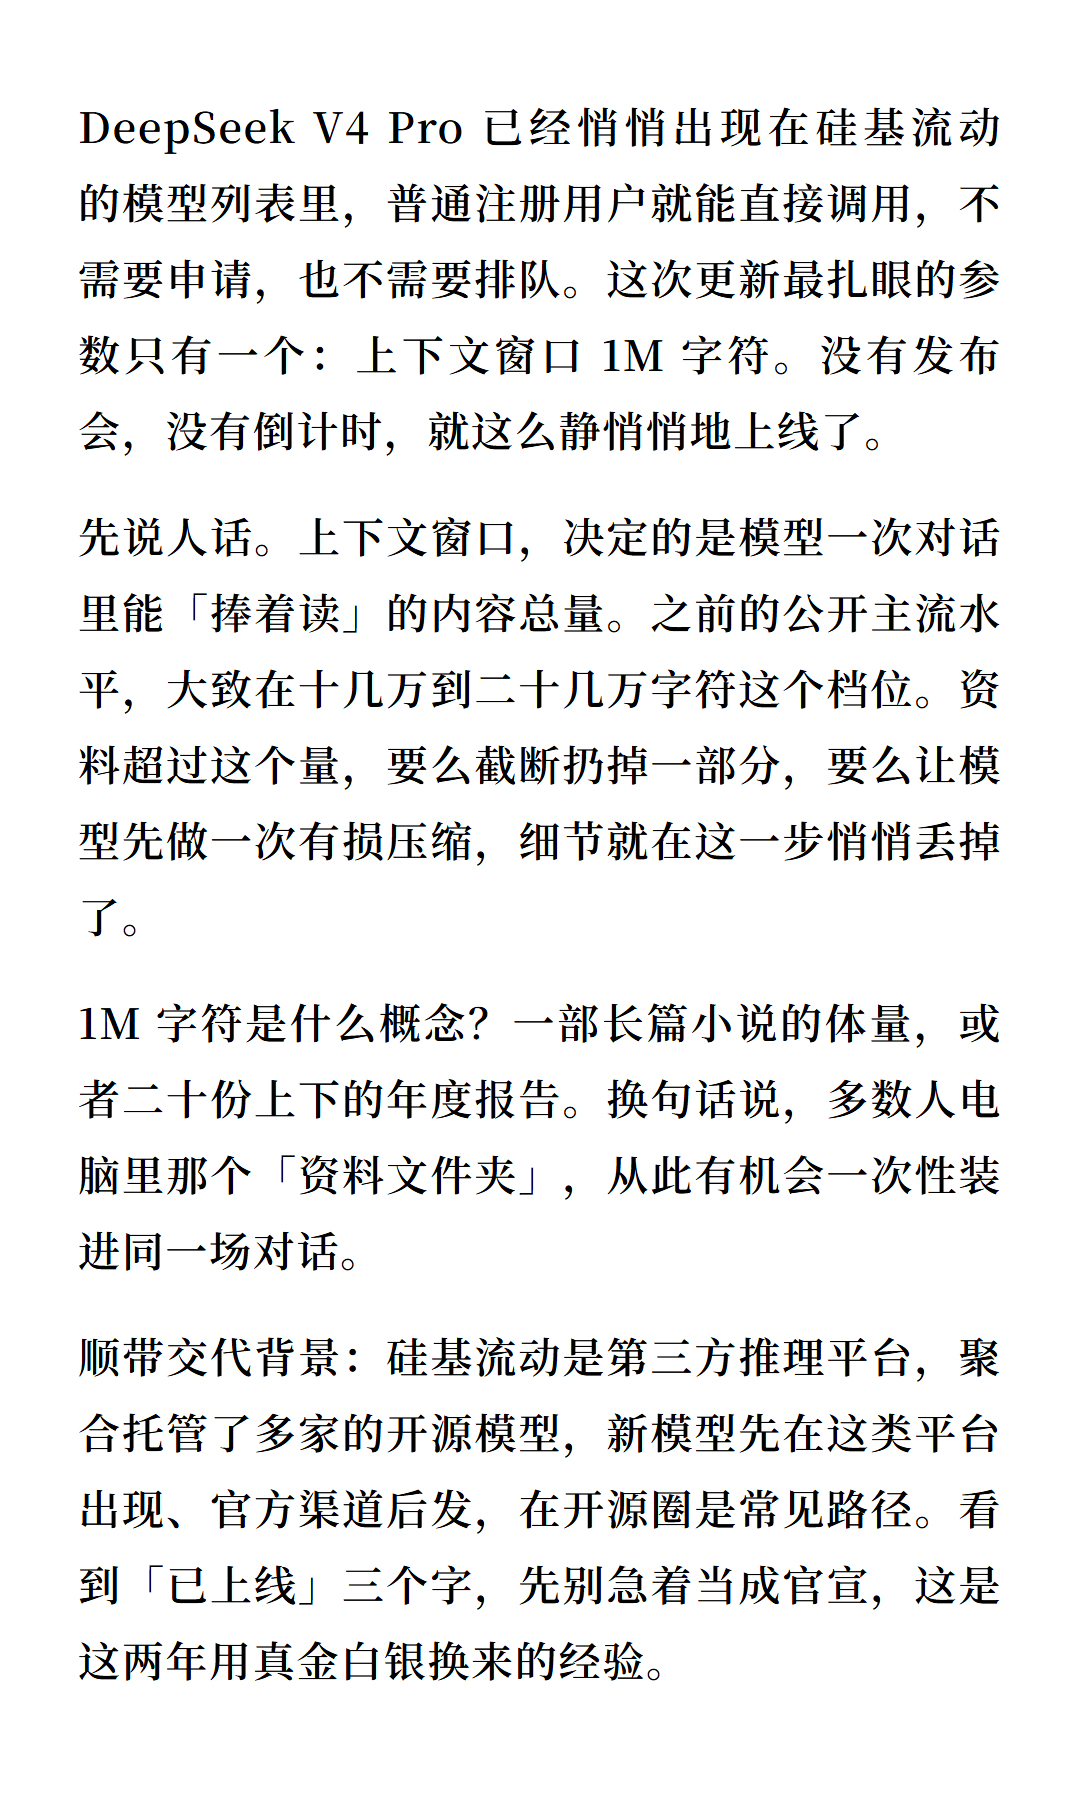
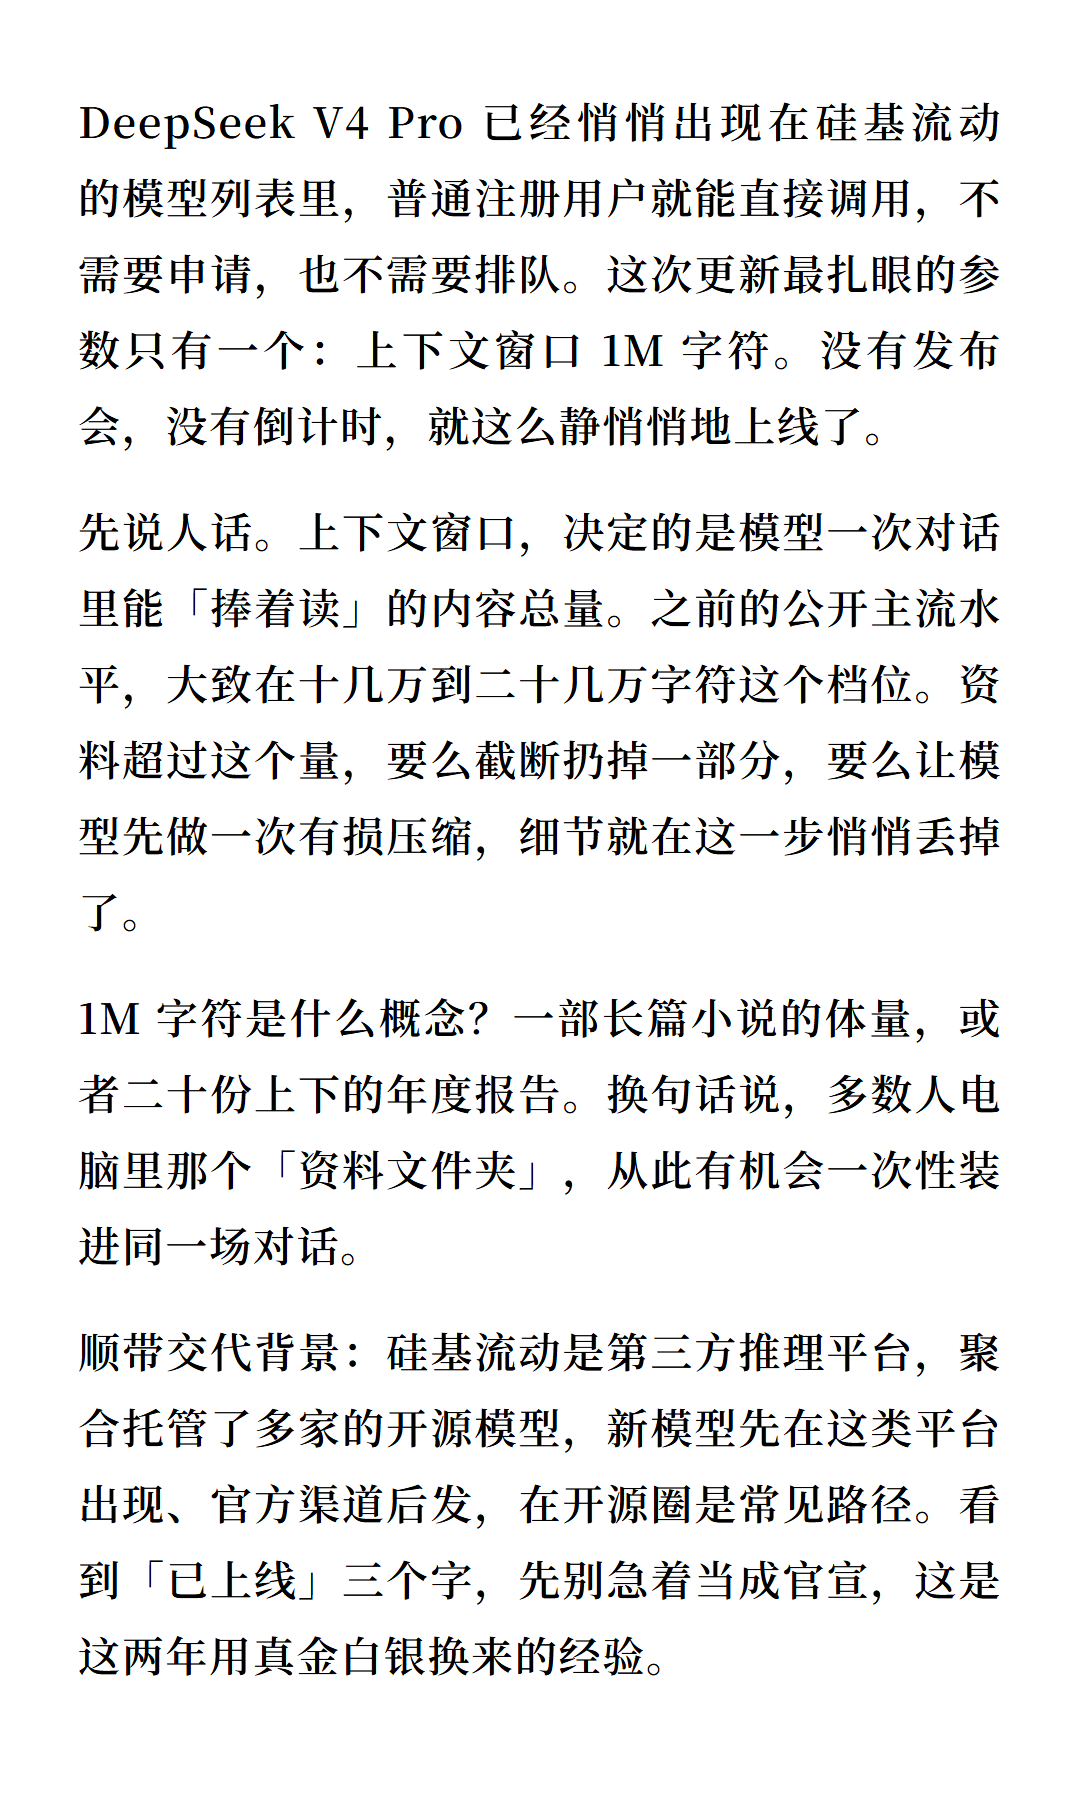
留白微调：上 82（-5）、下 79（+10）

diff --git a/design/preview/c5_35/prose_mode.html b/design/preview/c5_35/prose_mode.html
@@ -15,7 +15,7 @@ html, body { width: 1080px; height: 1800px; overflow: hidden; }
 body {
   font-family: var(--serif); background: #FFFFFF; color: var(--ink);
   display: flex; flex-direction: column;
-  padding: 87px 78px 69px;
+  padding: 82px 78px 79px;
 }
 main { flex: 1; }
 .hln { font-size: 50px; line-height: 80px; font-weight: 800; letter-spacing: 0.04em; }
@@ -56,7 +56,6 @@ main { flex: 1; }
 <div class="pln">出现、官方渠道后发，在开源圈是常见路径。看</div>
 <div class="pln">到「已上线」三个字，先别急着当成官宣，这是</div>
 <div class="pln last">这两年用真金白银换来的经验。</div>
-<div style="height:30px"></div>
 </main>
 </body>
 </html>

diff --git a/design/preview/c5_34/page_01.html b/design/preview/c5_34/page_01.html
@@ -15,7 +15,7 @@ html, body { width: 1080px; height: 1440px; overflow: hidden; }
 body {
   font-family: var(--serif); background: #FFFFFF; color: var(--ink);
   display: flex; flex-direction: column;
-  padding: 87px 78px 69px;
+  padding: 82px 78px 79px;
 }
 main { flex: 1; }
 .hln { font-size: 50px; line-height: 80px; font-weight: 800; letter-spacing: 0.04em; }

diff --git a/design/preview/c5_34/page_02.html b/design/preview/c5_34/page_02.html
@@ -15,7 +15,7 @@ html, body { width: 1080px; height: 1440px; overflow: hidden; }
 body {
   font-family: var(--serif); background: #FFFFFF; color: var(--ink);
   display: flex; flex-direction: column;
-  padding: 87px 78px 69px;
+  padding: 82px 78px 79px;
 }
 main { flex: 1; }
 .hln { font-size: 50px; line-height: 80px; font-weight: 800; letter-spacing: 0.04em; }

diff --git a/design/preview/c5_34/page_03.html b/design/preview/c5_34/page_03.html
@@ -15,7 +15,7 @@ html, body { width: 1080px; height: 1440px; overflow: hidden; }
 body {
   font-family: var(--serif); background: #FFFFFF; color: var(--ink);
   display: flex; flex-direction: column;
-  padding: 87px 78px 69px;
+  padding: 82px 78px 79px;
 }
 main { flex: 1; }
 .hln { font-size: 50px; line-height: 80px; font-weight: 800; letter-spacing: 0.04em; }

diff --git a/design/preview/c5_34/page_04.html b/design/preview/c5_34/page_04.html
@@ -15,7 +15,7 @@ html, body { width: 1080px; height: 1440px; overflow: hidden; }
 body {
   font-family: var(--serif); background: #FFFFFF; color: var(--ink);
   display: flex; flex-direction: column;
-  padding: 87px 78px 69px;
+  padding: 82px 78px 79px;
 }
 main { flex: 1; }
 .hln { font-size: 50px; line-height: 80px; font-weight: 800; letter-spacing: 0.04em; }

diff --git a/design/preview/c5_34/page_05.html b/design/preview/c5_34/page_05.html
@@ -15,7 +15,7 @@ html, body { width: 1080px; height: 1440px; overflow: hidden; }
 body {
   font-family: var(--serif); background: #FFFFFF; color: var(--ink);
   display: flex; flex-direction: column;
-  padding: 87px 78px 69px;
+  padding: 82px 78px 79px;
 }
 main { flex: 1; }
 .hln { font-size: 50px; line-height: 80px; font-weight: 800; letter-spacing: 0.04em; }

diff --git a/design/preview/c5_34/page_06.html b/design/preview/c5_34/page_06.html
@@ -15,7 +15,7 @@ html, body { width: 1080px; height: 1440px; overflow: hidden; }
 body {
   font-family: var(--serif); background: #FFFFFF; color: var(--ink);
   display: flex; flex-direction: column;
-  padding: 87px 78px 69px;
+  padding: 82px 78px 79px;
 }
 main { flex: 1; }
 .hln { font-size: 50px; line-height: 80px; font-weight: 800; letter-spacing: 0.04em; }

diff --git a/design/preview/c5_34/page_07.html b/design/preview/c5_34/page_07.html
@@ -15,7 +15,7 @@ html, body { width: 1080px; height: 1440px; overflow: hidden; }
 body {
   font-family: var(--serif); background: #FFFFFF; color: var(--ink);
   display: flex; flex-direction: column;
-  padding: 87px 78px 69px;
+  padding: 82px 78px 79px;
 }
 main { flex: 1; }
 .hln { font-size: 50px; line-height: 80px; font-weight: 800; letter-spacing: 0.04em; }

diff --git a/design/preview/c5_34/page_08.html b/design/preview/c5_34/page_08.html
@@ -15,7 +15,7 @@ html, body { width: 1080px; height: 1440px; overflow: hidden; }
 body {
   font-family: var(--serif); background: #FFFFFF; color: var(--ink);
   display: flex; flex-direction: column;
-  padding: 87px 78px 69px;
+  padding: 82px 78px 79px;
 }
 main { flex: 1; }
 .hln { font-size: 50px; line-height: 80px; font-weight: 800; letter-spacing: 0.04em; }

diff --git a/design/preview/c5_34/page_09.html b/design/preview/c5_34/page_09.html
@@ -15,7 +15,7 @@ html, body { width: 1080px; height: 1440px; overflow: hidden; }
 body {
   font-family: var(--serif); background: #FFFFFF; color: var(--ink);
   display: flex; flex-direction: column;
-  padding: 87px 78px 69px;
+  padding: 82px 78px 79px;
 }
 main { flex: 1; }
 .hln { font-size: 50px; line-height: 80px; font-weight: 800; letter-spacing: 0.04em; }

diff --git a/design/preview/c5_34/page_10.html b/design/preview/c5_34/page_10.html
@@ -15,7 +15,7 @@ html, body { width: 1080px; height: 1440px; overflow: hidden; }
 body {
   font-family: var(--serif); background: #FFFFFF; color: var(--ink);
   display: flex; flex-direction: column;
-  padding: 87px 78px 69px;
+  padding: 82px 78px 79px;
 }
 main { flex: 1; }
 .hln { font-size: 50px; line-height: 80px; font-weight: 800; letter-spacing: 0.04em; }

diff --git a/design/preview/c5_34/page_11.html b/design/preview/c5_34/page_11.html
@@ -15,7 +15,7 @@ html, body { width: 1080px; height: 1440px; overflow: hidden; }
 body {
   font-family: var(--serif); background: #FFFFFF; color: var(--ink);
   display: flex; flex-direction: column;
-  padding: 87px 78px 69px;
+  padding: 82px 78px 79px;
 }
 main { flex: 1; }
 .hln { font-size: 50px; line-height: 80px; font-weight: 800; letter-spacing: 0.04em; }
